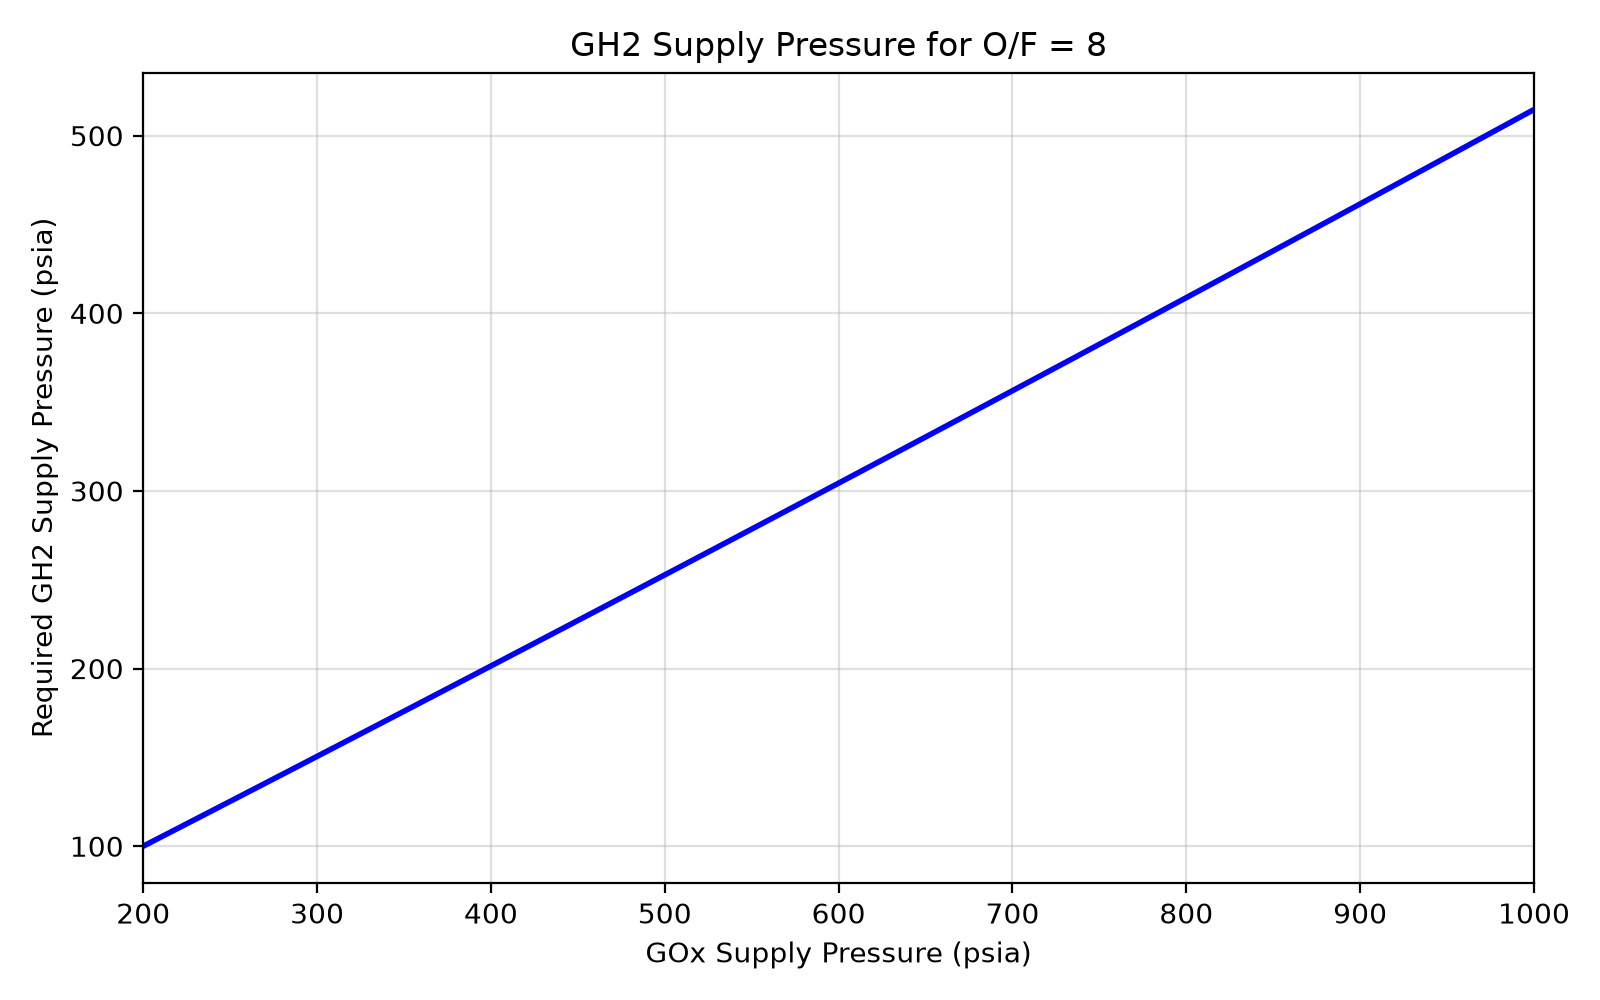
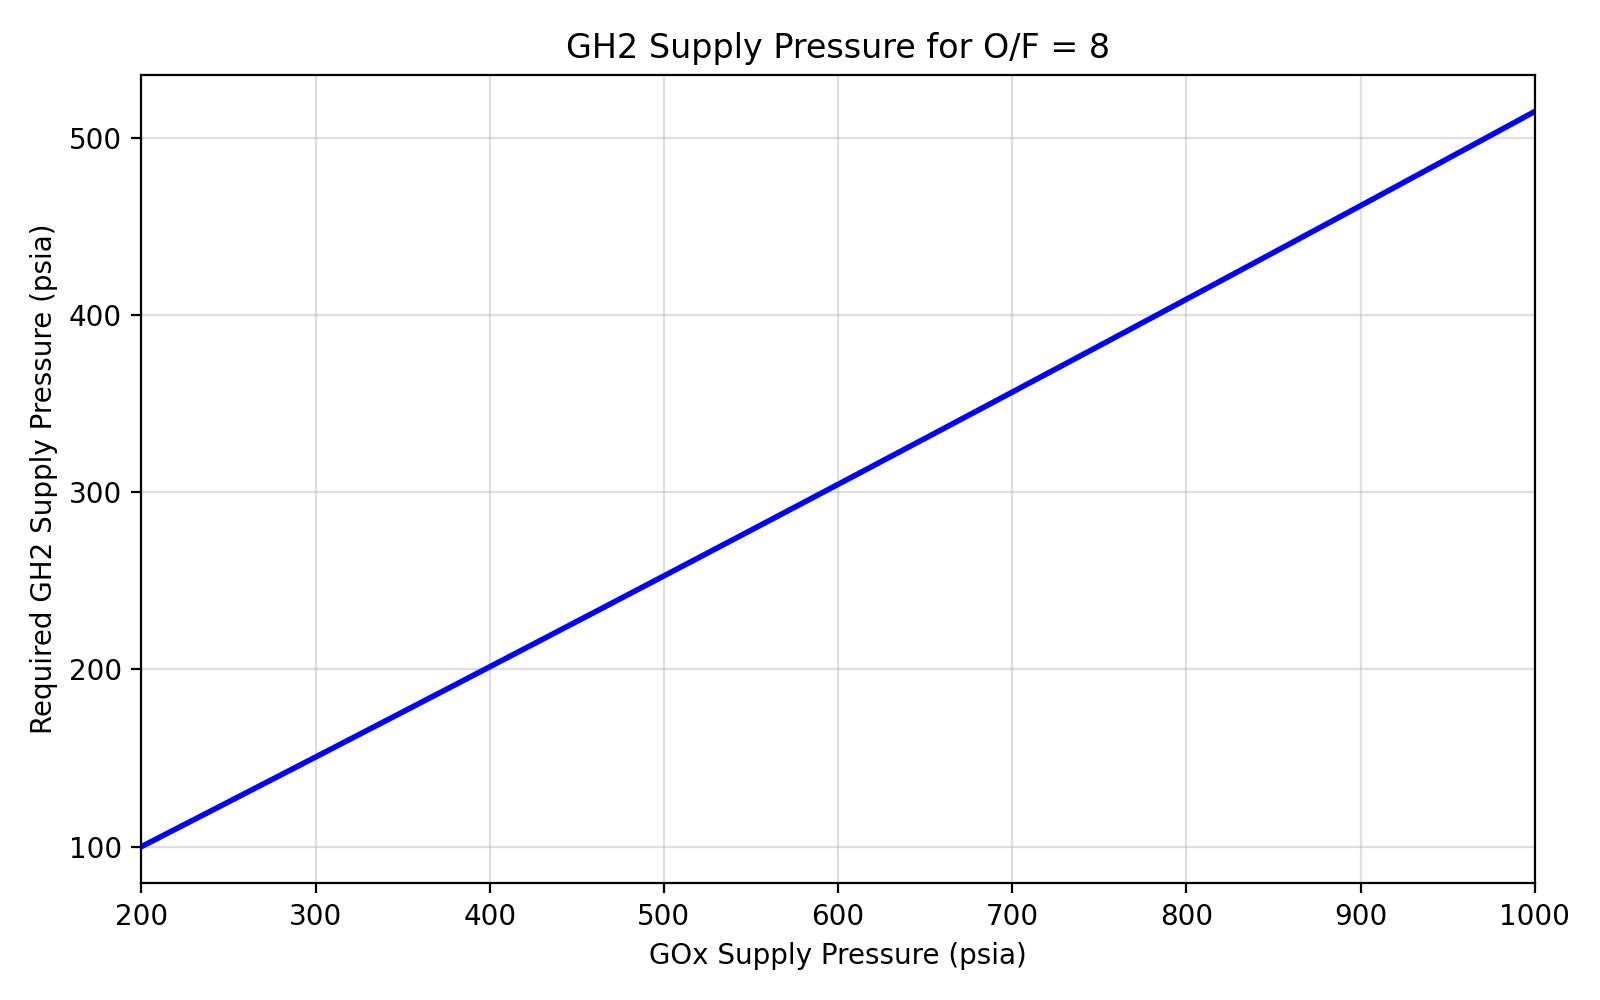
Validating code

diff --git a/Pre-Detonator/Pre_Det_Structural[FINAL].py b/Pre-Detonator/Pre_Det_Structural[FINAL].py
@@ -1,0 +1,38 @@
+import math
+import CoolProp.CoolProp as cp
+
+#--------------------------------- CONVERSIONS -------------------------------#
+in_to_m = 0.0254
+psi_to_Pa = 6894.76
+bar_to_psia = 14.5
+atm_to_psia = 14.7
+kg_to_lbm = 2.20462
+
+#--------------------------------- MAIN CODE ---------------------------------#
+# Pre-Det Dimensions
+l1 = 1.5 * in_to_m # tube 2 length, m
+l2 = 2.5 * in_to_m # tube 1 length, m
+t1 = 0.065 # tube 1 thickness, in
+t2 = 0.049 # tube 2 thickness, in
+r1_o = 0.375/2 # inches
+r2_o = 0.25/2 # inches
+
+# Shchelkin Spiral Calculations
+OD = 0.3 # inches
+ID = 0.21 # inches
+BR = (OD**2 - ID**2) / (OD**2)
+print("Blockage Ratio:", str(BR))
+
+# Hoop Stress Calculations
+P_i = 3004 # psia
+P_o = 14.7 # psia
+r1_i = r1_o - t1 # inches
+r2_i = r2_o - t2 # inches
+sigma1_hoop = ((r1_i**2 * P_i - r1_o**2 * P_o) / (r1_o**2 - r1_i**2)) + (r1_i**2 * r1_o**2 * (P_i - P_o) / (r1_i**2 * (r1_o**2 - r1_i**2))) # psia
+sigma2_hoop = ((r2_i**2 * P_i - r2_o**2 * P_o) / (r2_o**2 - r2_i**2)) + (r2_i**2 * r2_o**2 * (P_i - P_o) / (r2_i**2 * (r2_o**2 - r2_i**2))) # psia
+print("Hoop Stress 3/8 in:", str(sigma1_hoop), "psia")
+print("Hoop Stress 1/4 in:", str(sigma2_hoop), "psia")
+hoop_stress_safety1 = 6500 # psia
+hoop_stress_safety2 = 7500 # psia
+print("Pressure Safety Factor 3/8 in:", str(hoop_stress_safety1/sigma1_hoop))
+print("Pressure Safety Factor 1/4 in:", str(hoop_stress_safety2/sigma2_hoop))

diff --git a/Pre-Detonator/Pre_Det_Pressure[FINAL].py b/Pre-Detonator/Pre_Det_Pressure[FINAL].py
@@ -78,7 +78,22 @@ while True:
         p_out = required_GH2_pressure(p_in)
         md_O = choked_mdot(p_in * psi_to_Pa, 'Oxygen', R_GOx, A_GOx, Cd_GOx)
         md_H = choked_mdot(p_out * psi_to_Pa, 'Hydrogen', R_GH2, A_GH2, Cd_GH2)
+        x_GOx = md_O / MW_GOx
+        x_GH2 = md_H / MW_GH2
+        n_GOx = x_GOx / (x_GH2 + x_GOx)
+        n_GH2 = x_GH2 / (x_GH2 + x_GOx)
+        cph2 = int(PropsSI('CPMASS', 'T', Tt, 'P', p_out, "Hydrogen"))
+        cvh2 = int(PropsSI('CVMASS', 'T', Tt, 'P', p_out, "Hydrogen"))
+        cpo2 = int(PropsSI('CPMASS', 'T', Tt, 'P', p_in, "Oxygen"))
+        cvo2 = int(PropsSI('CVMASS', 'T', Tt, 'P', p_in, "Oxygen"))
+        gh2 = cph2 / cvh2
+        go2 = cpo2 / cvo2
+        p2_GH2 = p_out / ((1 + (gh2 - 1) / 2) ** (gh2 / (gh2 - 1)))
+        p2_GOx = p_in / ((1 + (go2 - 1) / 2) ** (go2 / (go2 - 1)))
+        p_total = (p2_GH2*n_GH2) + (p2_GOx*n_GOx)
+        print(f"Total pressure: {p_total:.2f} psia")
         print(f"Required GH2 pressure: {p_out:.2f} psia")
         print(f"Check -> O2: {md_O*1000:.5f} g/s, H2: {md_H*1000:.5f} g/s, O/F = {md_O/md_H:.4f}")
+        False
     except ValueError:
         print("Invalid input, enter a number.")
